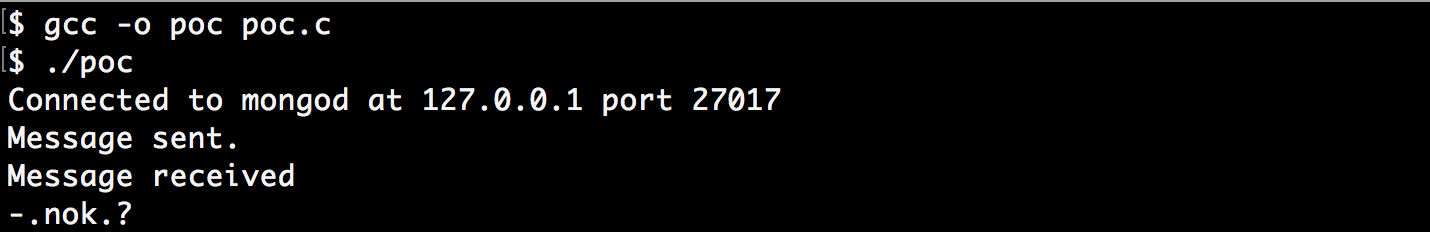
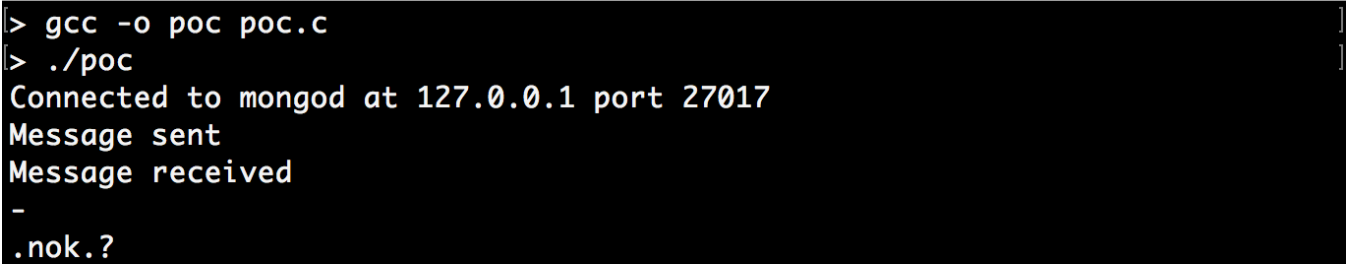
Replace images, fix code

Changed region(s): [[0.0, 0.0, 1.0, 1.0]]

diff --git a/building_a_micro_mongodb_driver.html b/building_a_micro_mongodb_driver.html
@@ -1,7 +1,6 @@
 <!--
-    - add github repo
-    - add links
-    - proofread
+    - update code
+    - fix images
 -->
 <!doctype html>
 <html lang='en'>
@@ -374,13 +373,13 @@ mongo_client_t* mongo_connect (char* ip, int port);
 // clean up the client handle
 void mongo_disconnect (mongo_client_t* client);
 
-// send a command and get a reply, returns 0 on error
+// send a command and get a reply, returns the number of bytes
+// recieved or -1 on error
 int mongo_send_command (mongo_client_t* client,
                         char* command,
                         int size,
                         char* reply,
-                        int reply_size,
-                        int* num_recv);
+                        int reply_size);
 
 #endif</code></pre>
 <figcaption>micro_driver.h - the interface of our micro driver</figcaption>
@@ -392,12 +391,11 @@ int mongo_send_command (mongo_client_t* client,
                         char* command,
                         int command_size,
                         char* reply,
-                        int reply_size,
-                        int* num_recv) {
+                        int reply_size) {
 
   static char op_msg_header[] = {
     0x00, 0x00, 0x00, 0x00, // total message size, including this
-    0x00, 0x00, 0x00, 0x00, // requestID
+    0x00, 0x00, 0x00, 0x00, // requestID (can be 0)
     0x00, 0x00, 0x00, 0x00, // responseTo (unused for sending)
     0xDD, 0x07, 0x00, 0x00, // opCode = 2013 = 0x7DD for OP_MSG
     0x00, 0x00, 0x00, 0x00, // message flags (not needed)
@@ -414,12 +412,9 @@ int mongo_send_command (mongo_client_t* client,
   *as_int = total_bytes; // hope you're on a little-endian machine :)
 
   int ret = send (client-&gt;socket_fd, op_msg, total_bytes, 0);
-  if (ret == -1) return 0;
+  if (ret == -1) return -1;
 
-  *num_recv = recv (client-&gt;socket_fd, reply, reply_size, 0);
-  if (*num_recv == -1) return 0;
-
-  return 1;
+  return recv (client-&gt;socket_fd, reply, reply_size, 0);
 }</code></pre>
 <figcaption>micro_driver.c - the implementation of our micro driver</figcaption>
 </figure>
@@ -465,21 +460,20 @@ int main() {
   };
 
   char reply_buf[512];
-  int num_recv = 0;
-  int ret = mongo_send_command (client,
-                                command,
-                                sizeof(command),
-                                reply_buf,
-                                sizeof(reply_buf),
-                                &amp;num_recv);
-  if (!ret) {
+  int num_recv = mongo_send_command (client,
+                                     command,
+                                     sizeof(command),
+                                     reply_buf,
+                                     sizeof(reply_buf));
+  if (num_recv == -1) {
     printf("Could not send, errno=%d\n", errno);
     return 1;
   }
-  
+
   printf ("Command sent, recieved %d bytes\n", num_recv);
   mongo_disconnect (client);
-}</code></pre>
+}
+</code></pre>
 <figcaption>app.c - a user application using the driver</figcaption>
 </figure>
             <p>It might not be much, but our micro driver is functional! This could potentially be expanded to fully featured driver. This is left as an exercise for the reader.</p>
